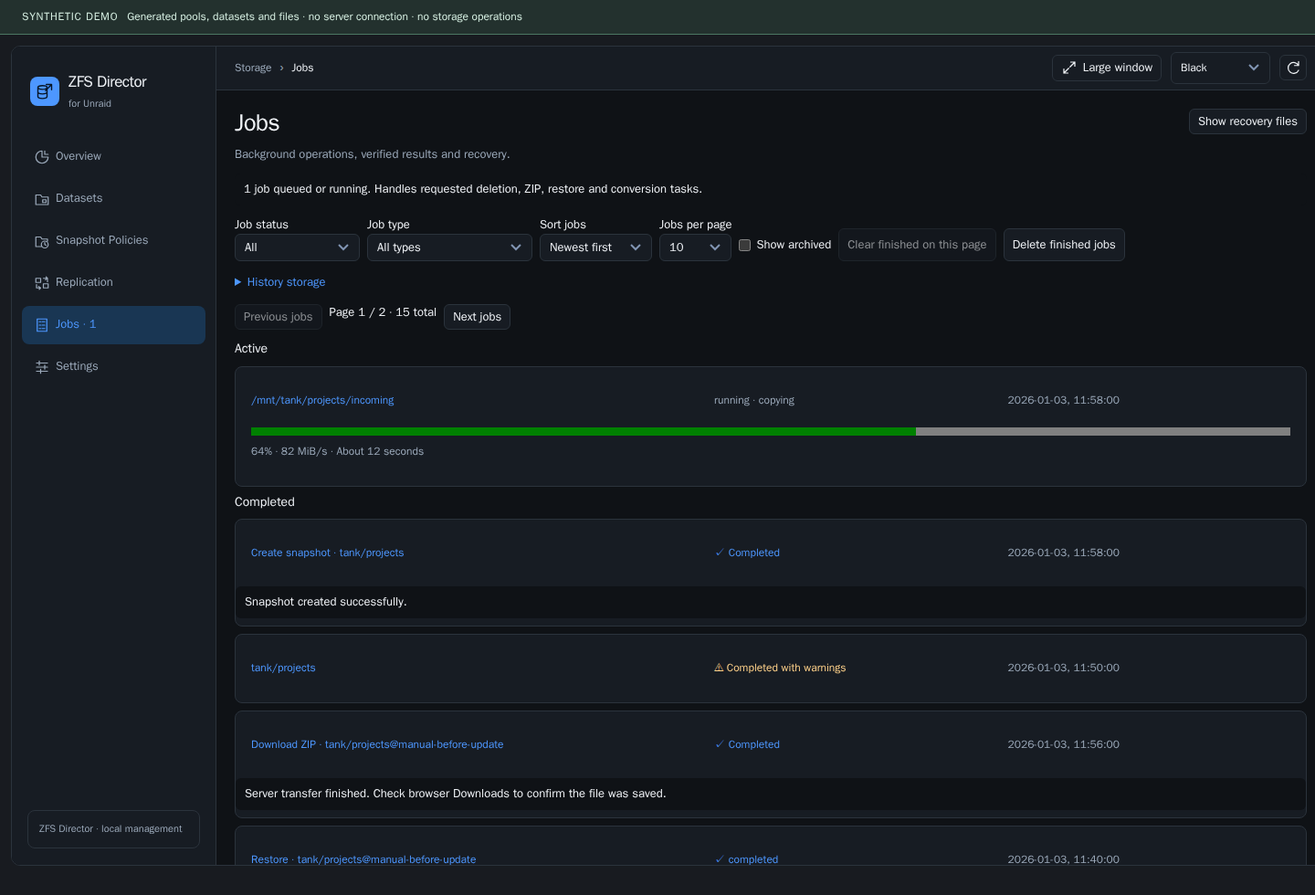
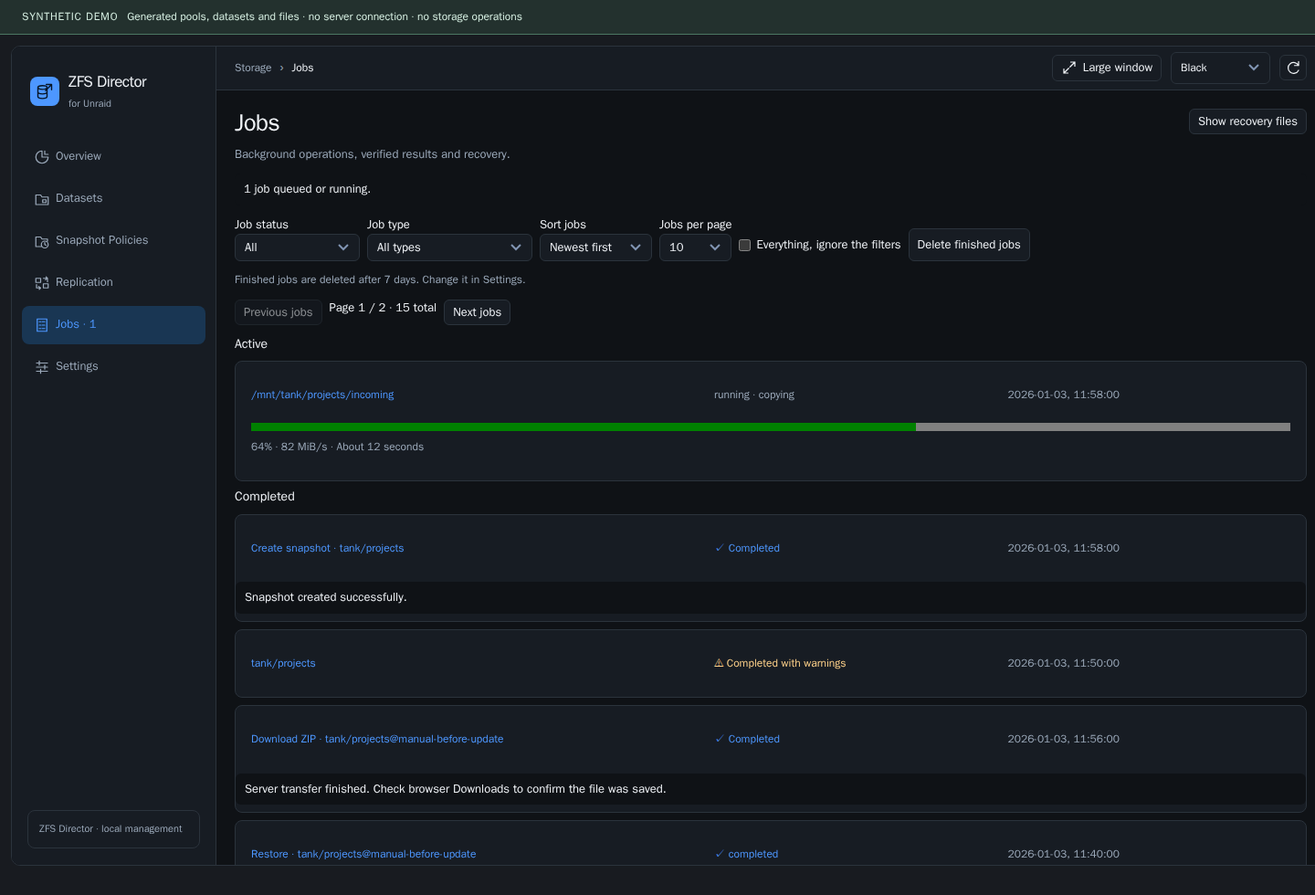
feat: Jobs lists only functional work, finished jobs expire after 7 days (setting), one Delete button

diff --git a/src/frontend/ZFSMWorkspace.js b/src/frontend/ZFSMWorkspace.js
@@ -32,7 +32,7 @@ function zfsmCreateWorkspace(options) {
     const inventoryJobs=new Set();
     let stopped=false,config=Object.assign({},options.config),data=null,lastInventory=null,inventoryFresh=false,lastSuccessfulRefresh='',section='datasets',tab='overview',pool='',selection='';
     let layout='tree',theme='auto',viewGeneration=0,activeForm=null,snapshotHost=null,detailBody=null,browserHost=null,detailHeading=null;
-    let jobsPage=1,jobsPageSize=10,jobsFilter='all',jobsType='all',jobsSort='newest',jobsView='working',jobsClear=null,jobsNotice='',jobsVisibilityBusy=false,jobsStorageOpen=false;const jobsExpanded=new Set(),jobsDiagnosticsExpanded=new Set();let jobs={jobs:[],worker_running:false},jobsError='',jobsBusy=false,jobsPending=false,jobsScope='',jobsTimer=null,jobsHost=null;
+    let jobsPage=1,jobsPageSize=10,jobsFilter='all',jobsType='all',jobsSort='newest',jobsView='all',jobsEverything=false,jobsNotice='',jobsVisibilityBusy=false,jobsStorageOpen=false;const jobsExpanded=new Set(),jobsDiagnosticsExpanded=new Set();let jobs={jobs:[],worker_running:false},jobsError='',jobsBusy=false,jobsPending=false,jobsScope='',jobsTimer=null,jobsHost=null;
     let diagnosticBusy=false,diagnosticPending=false,inventoryError='',datasetTab='overview',showRecoveryFiles=false,explorer=null,explorerDialog=null,actionDialog=null;
     let selectionChanged=false,selectionIdentity='';let diagnosticTimer=null,scrubReview='',browserQuery='',browserFilter='all',browserPage=1;
     const scrubBusy=new Set();
@@ -639,11 +639,11 @@ function zfsmCreateWorkspace(options) {
             jobs=answer;jobsScope=scope;jobsError='';if(refreshInventory)inventory.refresh();
         }
         catch(error){if(scope!==JSON.stringify(jobRequestFields()))jobsPending=true;else jobsError='Job status unavailable. Retained results may be stale: '+error.message;}
-        finally{jobsBusy=false;if(!stopped){if(!jobsError)renderOperation(jobs.operation);const attention=(Number(jobs.counts?.active)||0)+(Number(jobs.counts?.needs_attention)||0);sectionButtons.get('jobs').querySelector('.zfsm-nav-label').textContent='Jobs'+(attention>0?' · '+attention:'');renderJobs();if(section==='overview')renderSection();if(activeForm&&['cancelconversion','resumeconversion','cancelrestore'].includes(activeForm.action))forms.render(activeForm.host,activeForm.action,activeForm.context);explorer?.updateJobs?.(jobs.jobs);if(jobsPending){jobsPending=false;loadJobs();}else jobsTimer=setTimeout(loadJobs,2500);}}
+        finally{jobsBusy=false;if(!stopped){if(!jobsError)renderOperation(jobs.operation);const running=Number(jobs.counts?.active)||0;sectionButtons.get('jobs').querySelector('.zfsm-nav-label').textContent='Jobs'+(running>0?' · '+running:'');renderJobs();if(section==='overview')renderSection();if(activeForm&&['cancelconversion','resumeconversion','cancelrestore'].includes(activeForm.action))forms.render(activeForm.host,activeForm.action,activeForm.context);explorer?.updateJobs?.(jobs.jobs);if(jobsPending){jobsPending=false;loadJobs();}else jobsTimer=setTimeout(loadJobs,2500);}}
     }
     function renderJobs(){
         if(!jobsHost)return;
-        const previousStorage=jobsHost.querySelector('.zfsm-history-storage');if(previousStorage)jobsStorageOpen=previousStorage.open;
+        
         for(const detail of jobsHost.querySelectorAll('[data-job-id] > details')){const id=detail.closest('[data-job-id]').dataset.jobId;detail.open?jobsExpanded.add(id):jobsExpanded.delete(id);}
         for(const detail of jobsHost.querySelectorAll('[data-job-diagnostics]')){const id=detail.closest('[data-job-id]').dataset.jobId;detail.open?jobsDiagnosticsExpanded.add(id):jobsDiagnosticsExpanded.delete(id);}
         const copyNodes=new Map([...jobsHost.querySelectorAll('[data-job-id]')].map(row=>[row.dataset.jobId,[...row.querySelectorAll('[data-copy-status],[data-copy-fallback]')]]));
@@ -652,27 +652,17 @@ function zfsmCreateWorkspace(options) {
         jobsHost.replaceChildren();
         if(jobsScope!==JSON.stringify(jobRequestFields())){const notice=node('p',jobsError||'Loading current jobs…',jobsError?'zfsm-error':'zfsm-notice');notice.setAttribute('role',jobsError?'alert':'status');jobsHost.append(notice);return;}
         const toolbar=node('div',undefined,'zfsm-buttons zfsm-jobs-toolbar');
-        function choice(label,values,current,change){const wrap=node('label'),select=node('select');select.setAttribute('aria-label',label);for(const [value,caption]of values){const option=node('option',caption);option.value=value;select.append(option);}select.value=current;select.addEventListener('change',()=>{change(select.value);jobsPage=1;jobsClear=null;loadJobs();});wrap.append(node('span',label+' '),select);toolbar.append(wrap);}
+        function choice(label,values,current,change){const wrap=node('label'),select=node('select');select.setAttribute('aria-label',label);for(const [value,caption]of values){const option=node('option',caption);option.value=value;select.append(option);}select.value=current;select.addEventListener('change',()=>{change(select.value);jobsPage=1;loadJobs();});wrap.append(node('span',label+' '),select);toolbar.append(wrap);}
         // UX-003: status and type are separate; together they reach every former category.
         choice('Job status',[['all','All'],['active','Active'],['needs_attention','Needs attention'],['completed','Completed']],['all','active','needs_attention','completed'].includes(jobsFilter)?jobsFilter:'all',value=>jobsFilter=value);
         choice('Job type',[['all','All types'],['restore','Restore'],['archive','ZIP'],['download','Downloads'],['conversion','Conversion'],['deletion','Deletion'],['policy','Snapshot policies'],['replication','Replication'],['maintenance','Scrub and maintenance'],['snapshot','Snapshots'],['operation','Other operations']],jobsType,value=>jobsType=value);
         choice('Sort jobs',[['newest','Newest first'],['oldest','Oldest first'],['attention','Attention first']],jobsSort,value=>jobsSort=value);
         choice('Jobs per page',[[10,'10'],[25,'25'],[50,'50'],[100,'100']],jobsPageSize,value=>{jobsPageSize=Number(value);savePreferences();});
-        {const wrap=node('label',undefined,'zfsm-jobs-archive-toggle'),box=node('input');box.type='checkbox';box.checked=jobsView!=='working';box.setAttribute('aria-label','Show archived');box.addEventListener('change',()=>{jobsView=box.checked?'all':'working';jobsPage=1;jobsClear=null;loadJobs();});wrap.append(box,node('span','Show archived'));toolbar.append(wrap);}
-        const eligible=jobs.jobs.filter(job=>job.archive_eligible===true&&!job.archived).map(job=>job.id).slice(0,200),archived=jobs.jobs.filter(job=>job.archived===true).map(job=>job.id).slice(0,200);
-        const clear=button('Clear finished on this page',()=>{jobsClear={ids:eligible.slice(),archive:true};renderJobs();}),drop=button('Delete finished jobs',()=>{jobsNotice='';jobsClear={drop:true};renderJobs();}),restore=button('Restore archived on this page',()=>{jobsClear={ids:archived.slice(),archive:false};renderJobs();});
-        clear.disabled=!eligible.length||!!jobsError||jobsVisibilityBusy;restore.disabled=!archived.length||!!jobsError||jobsVisibilityBusy;drop.disabled=!!jobsError||jobsVisibilityBusy;clear.hidden=jobsView==='archived';restore.hidden=jobsView==='working';toolbar.append(clear,restore,drop);jobsHost.append(toolbar);
-        if(jobsNotice&&!jobsClear){const done=node('p',jobsNotice,'zfsm-notice');done.setAttribute('role','status');done.dataset.jobsDeleted='';jobsHost.append(done);}
-        if(jobsClear?.drop){const confirmation=node('div',undefined,'zfsm-notice');confirmation.append(node('p','Delete the records of all finished jobs, on every page? Running jobs and jobs that still hold a snapshot, a ZIP or recovery data are kept. Datasets, snapshots and files are not touched.'),button('Delete records',async()=>{if(jobsVisibilityBusy)return;jobsVisibilityBusy=true;try{const answer=await request({cmd:'deletefinishedjobs'});if(!answer.succeeded||Object.keys(answer.failed||{}).length)throw new Error(Object.values(answer.failed||{}).join('; ')||'Invalid response');jobsClear=null;jobsNotice=answer.succeeded.jobs||'';jobsPage=1;await loadJobs();}catch(error){jobsError='Unable to delete job records: '+error.message;renderJobs();}finally{jobsVisibilityBusy=false;}}),button('Cancel',()=>{jobsClear=null;renderJobs();}));jobsHost.append(confirmation);}
-        else if(jobsClear){const pending=jobsClear,confirmation=node('div',undefined,'zfsm-notice');confirmation.append(node('p',(pending.archive?'Hide '+pending.ids.length+' finished job(s) on this page? Nothing is deleted: journals stay, and Show archived brings them back.':'Restore '+pending.ids.length+' archived job(s) from this page?')),button(pending.archive?'Confirm hide':'Confirm restore',async()=>{if(jobsVisibilityBusy)return;jobsVisibilityBusy=true;try{const answer=await request({cmd:'activityvisibility',kind:'jobs',ids:pending.ids,archived:pending.archive?'1':'0'});if(!answer.succeeded||Object.keys(answer.failed||{}).length)throw new Error(Object.values(answer.failed||{}).join('; ')||'Invalid visibility response');jobsClear=null;await loadJobs();}catch(error){jobsError='Unable to change job visibility: '+error.message;renderJobs();}finally{jobsVisibilityBusy=false;}}),button('Cancel',()=>{jobsClear=null;renderJobs();}));jobsHost.append(confirmation);}
+        {const wrap=node('label',undefined,'zfsm-jobs-archive-toggle'),box=node('input');box.type='checkbox';box.checked=jobsEverything;box.setAttribute('aria-label','Everything, not only this page');box.addEventListener('change',()=>{jobsEverything=box.checked;renderJobs();});wrap.append(box,node('span','Everything, ignore the filters'));toolbar.append(wrap);}
+        const drop=button('Delete finished jobs',async()=>{if(jobsVisibilityBusy)return;jobsVisibilityBusy=true;jobsNotice='';try{const answer=await request({cmd:'deletefinishedjobs',filter:jobsFilter,type:jobsType,everything:jobsEverything?'1':'0'});if(!answer.succeeded||Object.keys(answer.failed||{}).length)throw new Error(Object.values(answer.failed||{}).join('; ')||'Invalid response');jobsNotice=answer.succeeded.jobs||'';jobsPage=1;await loadJobs();}catch(error){jobsError='Unable to delete job records: '+error.message;renderJobs();}finally{jobsVisibilityBusy=false;}});drop.disabled=!!jobsError||jobsVisibilityBusy;toolbar.append(drop);jobsHost.append(toolbar);
+        if(jobsNotice){const done=node('p',jobsNotice,'zfsm-notice');done.setAttribute('role','status');done.dataset.jobsDeleted='';jobsHost.append(done);}
 
-        const storage=node('details',undefined,'zfsm-history-storage'),storageTitle=node('summary','History storage'),last=jobs.history?.last_cleanup;
-        storage.open=jobsStorageOpen;storageTitle.setAttribute('aria-label','History storage');
-        storage.append(storageTitle,node('p','Automatic cleanup checks every hour. Successful log entries are kept for up to 30 days, with storage targets of 1,000 entries or 32 MiB. At least the newest 100 successful entries and the latest policy/replication results are retained.'));
-        storage.append(node('p','Active tasks, errors, warnings, recovery records, saved-data journals and referenced records are protected. These can exceed the targets. Cleanup never deletes datasets, snapshots, ZIP/restore files or saved originals. The audit log is retained separately.'));
-        if(last){storage.append(node('p','Last check: '+date(last.checked_at)+' · '+last.removed+' log entries removed · '+bytes(last.reclaimed_bytes)+' reclaimed.'));if(last.warning)storage.append(node('p',last.warning,'zfsm-notice'));}
-        else storage.append(node('p','The background worker will check history storage. Hiding completed entries changes the view and does not free storage.','zfsm-muted'));
-        jobsHost.append(storage);
+        {const days=jobs.history?.policy?.days??7,keep=days===0?'Finished jobs are kept until you delete them.':'Finished jobs are deleted after '+days+(days===1?' day':' days')+'.',line=node('p',keep+' Change it in Settings.','zfsm-muted');line.dataset.jobsRetention='';jobsHost.append(line);}
         if(jobs.pagination){const p=jobs.pagination,bar=node('div',undefined,'zfsm-buttons'),previous=button('Previous jobs',()=>{jobsPage=p.page-1;loadJobs();}),next=button('Next jobs',()=>{jobsPage=p.page+1;loadJobs();});previous.disabled=!p.has_previous||Boolean(jobsError);next.disabled=!p.has_next||Boolean(jobsError);bar.append(previous,node('span','Page '+p.page+' / '+p.pages+' · '+p.total+' total'),next);jobsHost.append(bar);}if(jobsError){const error=node('p',jobsError,'zfsm-error');error.setAttribute('role','alert');jobsHost.append(error);}
         if(!jobs.jobs.length)jobsHost.append(node('p','No background jobs.','zfsm-notice'));
         let previousGroup='';
@@ -721,7 +711,7 @@ function zfsmCreateWorkspace(options) {
         if(focusedNode?.isConnected&&jobsHost.contains(focusedNode))focusedNode.focus({preventScroll:true});
         else if(focusedSummary)[...jobsHost.querySelectorAll('[data-job-id]')].find(row=>row.dataset.jobId===focusedSummary)?.querySelector(focusedDiagnostics?'[data-job-diagnostics] > summary':'summary')?.focus({preventScroll:true});
         else if(focused)[...jobsHost.querySelectorAll('[aria-label]')].find(item=>item.getAttribute('aria-label')===focused)?.focus({preventScroll:true});
-        jobsHost.prepend(node('p',backgroundTaskStatus()+'. '+(jobs.worker_running?'Handles requested deletion, ZIP, restore and conversion tasks.':'Queued tasks wait until the background worker is available.'),'zfsm-notice'));
+        jobsHost.prepend(node('p',backgroundTaskStatus()+(jobs.worker_running?'.':'. Queued tasks wait for the background worker.'),'zfsm-notice'));
     }
     // Copy of a job's redacted record for a bug report (secure clipboard or a manual fallback).
     function redactedActivity(value) {

diff --git a/src/frontend/ZFSMForms.js b/src/frontend/ZFSMForms.js
@@ -574,7 +574,7 @@
         refresh_interval: config.refresh_interval ?? 30, lazy_load: config.lazy_load ?? 0,
         destructive_mode: config.destructive_mode ?? 0, exclusion: config.dataset_exclusion ?? config.exclusion ?? '',
         directory_listing: Array.isArray(config.directory_listing) ? config.directory_listing.join('\n') : config.directory_listing || '',
-        snap_max_days_alert: config.snap_max_days_alert ?? 30, snap_pattern: config.snap_pattern ?? 'Y-m-d-His', snap_prefix: config.snap_prefix || '',space_warning_percent:config.space_warning_percent??80,space_critical_percent:config.space_critical_percent??90,replication_lag_hours:config.replication_lag_hours??24
+        snap_max_days_alert: config.snap_max_days_alert ?? 30, snap_pattern: config.snap_pattern ?? 'Y-m-d-His', snap_prefix: config.snap_prefix || '',space_warning_percent:config.space_warning_percent??80,space_critical_percent:config.space_critical_percent??90,replication_lag_hours:config.replication_lag_hours??24,job_retention_days:config.job_retention_days??7
       };
       for (const name of Object.keys(values)) values[name] = String(values[name]);
       return values;
@@ -593,6 +593,7 @@
       const values = settingsValues();
       state.settingsBaseline = values;
       state.dirtySettings = new Set(Object.keys(state.draft).filter(name => Object.prototype.hasOwnProperty.call(values, name) && String(state.draft[name]) !== values[name]));
+      field(state, 'job_retention_days', 'Keep finished jobs for', values.job_retention_days, [['1', '1 day'], ['7', '7 days'], ['30', '30 days'], ['0', 'Always']]);
       field(state, 'refresh_interval', 'Refresh interval', values.refresh_interval, [['0', 'No refresh'], ['30', '30 seconds'], ['60', '1 minute'], ['120', '2 minutes'], ['300', '5 minutes'], ['900', '15 minutes'], ['1800', '30 minutes']]);
       for (const [key, label] of [['lazy_load', 'Load snapshots only when a pool is opened'], ['destructive_mode', 'Destructive Mode']]) field(state, key, label, values[key], [['0', 'No'], ['1', 'Yes']]);
       const listing = field(state, 'directory_listing', 'Show folders in the tree for these datasets', values.directory_listing, null, { type: 'textarea', rows: 5, maxLength: 16384 });

diff --git a/src/include/ZFSMJobHistory.php b/src/include/ZFSMJobHistory.php
@@ -1,7 +1,19 @@
 <?php
+require_once __DIR__.'/ZFSMRecoveryCleanup.php';
 // Log retention never invokes ZFS or removes manifests, spools or saved data.
+// Settings > Keep finished jobs for: 1, 7 or 30 days, or 0 = always. Default 7.
+function zfsmJobRetentionDays() {
+    $value=null;
+    try{
+        $file=$GLOBALS['plugin_config']??null;
+        $stored=is_string($file)&&is_file($file)?@parse_ini_file($file,true,INI_SCANNER_NORMAL):null;
+        if(is_array($stored)){$value=$stored['job_retention_days']??($stored['general']['job_retention_days']??null);}
+        elseif(function_exists('parse_plugin_cfg')){$cfg=parse_plugin_cfg($GLOBALS['plugin'],true);$value=is_array($cfg)?($cfg['job_retention_days']??null):null;}
+    }catch(Throwable$error){}
+    return in_array((string)$value,['0','1','7','30'],true)?(int)$value:7;
+}
 function zfsmJobHistoryPolicy() {
-    return ['interval_seconds'=>3600,'days'=>30,'max_entries'=>1000,'max_bytes'=>32*1024*1024,'minimum_kept'=>100,'batch_limit'=>250,'duplicate_batch_limit'=>5000];
+    return ['interval_seconds'=>3600,'days'=>zfsmJobRetentionDays(),'batch_limit'=>5000,'duplicate_batch_limit'=>5000];
 }
 // Pin every existing directory component; missing metadata is never followed.
 function zfsmJobHistoryPathProof($path) {
@@ -57,15 +69,15 @@ function zfsmJobKeepOnDelete($job,$pinned=false) {
     if(in_array($state,['queued','running'],true))return 'running';
     if($state==='recovery_required')return 'needs recovery';
     if(!empty($job['hold_owned'])||(function_exists('zfsmArchiveNeedsCleanup')&&zfsmArchiveNeedsCleanup($job)))return 'still holds a snapshot or ZIP';
-    // A conversion or deletion that retained an original keeps the only pointer to it in Jobs.
-    if(in_array($schema,[1,6],true)&&!empty($job['recovery']))return 'retains an original for recovery';
+    // A ZIP that is still on disk belongs to its job until it is removed.
+    if($schema===2&&($job['type']??'')==='archive'&&empty($job['archive_removed']))return 'still holds a snapshot or ZIP';
     if($pinned)return 'latest result of a policy or replication';
     if($schema===4&&in_array($state,['completed','failed','cancelled'],true))return null;
     if($schema===7&&in_array($state,['completed','failed','cancelled'],true))return function_exists('zfsmRequestJobActive')&&zfsmRequestJobActive($job)?'running':null;
     if(function_exists('zfsmCleanupTerminalJob')&&zfsmCleanupTerminalJob($job))return null;
     return 'may own recovery data';
 }
-function zfsmJobDeleteFinished() {
+function zfsmJobDeleteFinished($only=null) {
     $gate=zfsmJobHistoryGate(true,true);if($gate===null)throw new RuntimeException('Jobs are being updated; try again in a moment.');
     $removed=0;$kept=[];$directory=zfsmJobDirectory($GLOBALS['plugin_state']);
     $keep=function($reason)use(&$kept){$kept[$reason]=($kept[$reason]??0)+1;};
@@ -83,8 +95,9 @@ function zfsmJobDeleteFinished() {
             zfsmJobHistoryReferences($job,$pins,$id);
             if(($job['schema']??null)===4){$key=($job['type']??'').':'.($job['definition_id']??'');if(!isset($latest[$key])){$pins[$id]=true;$latest[$key]=true;}if(($job['verification']['verified']??false)===true&&!isset($latest[$key.':verified'])){$pins[$id]=true;$latest[$key.':verified']=true;}}
         }
-        foreach($unreadable as$id=>$_)$keep('needs inspection');
+        foreach($unreadable as$id=>$_)if($only===null||isset($only[$id]))$keep('needs inspection');
         foreach($jobs as$id=>$job){
+            if($only!==null&&!isset($only[$id]))continue;
             $reason=zfsmJobKeepOnDelete($job,isset($pins[$id]));if($reason!==null){$keep($reason);continue;}
             $file=zfsmJobFile($id);$lock=$file.'.lock';$handle=null;
             if(file_exists($lock)||is_link($lock)){
@@ -105,17 +118,18 @@ function zfsmJobDeleteFinished() {
 function zfsmJobHistoryCleanup($now=null) {
     $now=$now??time();$policy=zfsmJobHistoryPolicy();$last=zfsmJobHistoryStatus()['last_cleanup'];
     if($last!==null&&$now-$last['checked_at']<$policy['interval_seconds'])return ['skipped'=>'not_due'];
+    if($policy['days']===0)return ['skipped'=>'keep_always'];
     $operation=zfsmAcquireOperationLock($GLOBALS['plugin_lock'],true);if($operation===null)return ['skipped'=>'operation_busy'];
-    $gate=null;$config=null;$report=['checked_at'=>$now,'removed'=>0,'reclaimed_bytes'=>0,'protected'=>0,'minimum_kept'=>$policy['minimum_kept'],'blocked'=>false];
+    $gate=null;$config=null;$report=['checked_at'=>$now,'removed'=>0,'reclaimed_bytes'=>0,'protected'=>0,'days'=>$policy['days'],'blocked'=>false];
     try {
     try {
         $gate=zfsmJobHistoryGate(true,true);if($gate===null)return ['skipped'=>'journal_busy'];
         zfsmJobHistoryPathProof(dirname($GLOBALS['plugin_config']));zfsmJobHistoryPathProof(dirname($GLOBALS['plugin_config']).'/protection');$configPath=zfsmProtectionDirectory().'/config.lock';if(is_link($configPath))throw new RuntimeException('Protection state requires inspection.');$config=fopen($configPath,'ce');$configStat=$config?fstat($config):false;$configNamed=zfsmJobHistoryRegular($configPath);if(!$configStat||$configStat['dev']!==$configNamed['dev']||$configStat['ino']!==$configNamed['ino'])throw new RuntimeException('Protection lock identity changed.');if(!flock($config,LOCK_SH|LOCK_NB))return ['skipped'=>'configuration_busy'];
         $storeFile=zfsmProtectionDirectory().'/config.json';if(file_exists($storeFile)||is_link($storeFile))zfsmJobHistoryRegular($storeFile);$store=zfsmProtectionReadStore();$pins=[];zfsmJobHistoryReferences($store,$pins);
         $records=[];$bytes=0;$seen=0;$directory=zfsmJobDirectory($GLOBALS['plugin_state']);$scan=opendir($directory);
-        try{while(($name=readdir($scan))!==false){if(++$seen>20000)throw new RuntimeException('History scan limit reached; no records removed.');if(!preg_match('/^([0-9]{8}-[0-9]{6}-[a-f0-9]{12})\.json$/D',$name,$match)){if(str_ends_with($name,'.json'))throw new RuntimeException('Unknown job journal; history retained for inspection.');continue;}
-            $file=$directory.'/'.$name;$stat=zfsmJobHistoryRegular($file);if($stat['size']>131072||count($records)>=5000||$bytes+$stat['size']>64*1024*1024)throw new RuntimeException('History scan limit reached; no records removed.');
-            $job=zfsmReadJob($match[1]);if(zfsmJobProblem($job))throw new RuntimeException('Invalid job journal; history retained for inspection.');$bytes+=$stat['size'];$records[$job['id']]=['job'=>$job,'stat'=>$stat,'hash'=>hash_file('sha256',$file),'time'=>zfsmJobHistoryTime($job)??PHP_INT_MAX];
+        try{while(($name=readdir($scan))!==false){if(++$seen>40000)throw new RuntimeException('History scan limit reached; no records removed.');if(!preg_match('/^([0-9]{8}-[0-9]{6}-[a-f0-9]{12})\.json$/D',$name,$match)){if(str_ends_with($name,'.json'))throw new RuntimeException('Unknown job journal; history retained for inspection.');continue;}
+            $file=$directory.'/'.$name;$stat=zfsmJobHistoryRegular($file);if($stat['size']>131072||count($records)>=20000||$bytes+$stat['size']>256*1024*1024)throw new RuntimeException('History scan limit reached; no records removed.');
+            $job=zfsmReadJob($match[1]);if(zfsmJobProblem($job)){$report['protected']++;continue;}$bytes+=$stat['size'];$records[$job['id']]=['job'=>$job,'stat'=>$stat,'hash'=>hash_file('sha256',$file),'time'=>zfsmJobHistoryTime($job)??PHP_INT_MAX];
             zfsmJobHistoryReferences($job,$pins,$job['id']);
         }}finally{closedir($scan);}
         uasort($records,fn($a,$b)=>($b['time']<=>$a['time'])?:strcmp($b['job']['id'],$a['job']['id']));
@@ -123,14 +137,14 @@ function zfsmJobHistoryCleanup($now=null) {
         // A scheduled launch refused before anything ran used to write a new failed record every
         // minute. Of each run of identical refusals only the newest is kept, whatever its age.
         $duplicates=[];$firstRefusal=[];foreach($records as$id=>$r){if(!zfsmProtectionBlockedBeforeStart($r['job']))continue;$key=$r['job']['type'].':'.$r['job']['definition_id'].':'.hash('sha256',(string)($r['job']['error']??''));if(!isset($firstRefusal[$key])){$firstRefusal[$key]=true;continue;}if(!isset($pins[$id]))$duplicates[$id]=$r;}
-        $eligible=[];foreach($records as$id=>$r){if(isset($duplicates[$id]))continue;if(isset($pins[$id])||!zfsmJobHistoryEligible($r['job']))$report['protected']++;else$eligible[$id]=$r;}
-        $eligible=array_slice($eligible,$policy['minimum_kept'],null,true);$count=count($records);
+        $eligible=[];foreach($records as$id=>$r){if(isset($duplicates[$id]))continue;if(isset($pins[$id])||zfsmJobKeepOnDelete($r['job'],false)!==null)$report['protected']++;else$eligible[$id]=$r;}
+        $count=count($records);
         $duplicateRemoved=0;
         foreach(array_reverse($duplicates,true)+array_reverse($eligible,true)as$id=>$r){
             $duplicate=isset($duplicates[$id]);
             if($duplicate&&$duplicateRemoved>=$policy['duplicate_batch_limit'])continue;
             if(!$duplicate&&$report['removed']-$duplicateRemoved>=$policy['batch_limit'])break;
-            if(!$duplicate&&$r['time']>$now-$policy['days']*86400&&$count<$policy['max_entries']&&$bytes<=$policy['max_bytes']-8192)continue;
+            if(!$duplicate&&$r['time']>$now-$policy['days']*86400)continue;
             $file=zfsmJobFile($id);$stat=zfsmJobHistoryRegular($file);if($stat['dev']!==$r['stat']['dev']||$stat['ino']!==$r['stat']['ino']||hash_file('sha256',$file)!==$r['hash'])throw new RuntimeException('Job identity changed; remaining history retained.');
             $aux=[$file.'.lock',$GLOBALS['plugin_runtime'].'/'.$id.'.json',$GLOBALS['plugin_runtime'].'/requests/'.$id.'.lock',$directory.'/visibility/jobs/'.$id.'.marker'];
             $proofs=[];$existing=[];$locks=[];$busy=false;
@@ -147,13 +161,11 @@ function zfsmJobHistoryCleanup($now=null) {
                 foreach($existing as$path)if($path!==$file&&!unlink($path))throw new RuntimeException('Unable to remove expired log metadata.');
             }finally{foreach($locks as$h)if(is_resource($h)){flock($h,LOCK_UN);fclose($h);}}
         }
-        $report['entries']=$count;$report['bytes']=$bytes;$report['over_limit']=$count>$policy['max_entries']||$bytes>$policy['max_bytes'];
-        if($report['over_limit'])$report['warning']='Protected history or cleanup backlog exceeds the storage target; retained for inspection.';
+        $report['entries']=$count;$report['bytes']=$bytes;
         if($report['removed'])zfsmAuditSyncDirectory($directory);
     } catch(Throwable$error){$report['blocked']=true;$report['warning']=$error->getMessage();}
     finally {foreach([$config,$gate]as$handle)if(is_resource($handle)){flock($handle,LOCK_UN);fclose($handle);}}
     zfsmJobAtomicWrite(zfsmJobDirectory($GLOBALS['plugin_runtime']).'/history-cleanup.json',$report);
-    if($report['removed']){zfsmRequestJobBegin('jobhistorycleanup',['cmd'=>'jobhistorycleanup']);$summary=zfsmRequestJobFinish('completed','Removed '.$report['removed'].' expired log records ('.$report['reclaimed_bytes'].' bytes). Datasets, snapshots and recovery files were not changed.','completed',['removed'=>$report['removed'],'reclaimed_bytes'=>$report['reclaimed_bytes']]);if(isset($report['entries'],$report['bytes'])){$report['entries']++;$report['bytes']+=filesize(zfsmJobFile($summary['id']));$report['over_limit']=$report['entries']>$policy['max_entries']||$report['bytes']>$policy['max_bytes'];}zfsmJobAtomicWrite($GLOBALS['plugin_runtime'].'/history-cleanup.json',$report);}
     return $report;
     }finally{flock($operation,LOCK_UN);fclose($operation);}
 }

diff --git a/src/include/ZFSMJobs.php b/src/include/ZFSMJobs.php
@@ -308,6 +308,17 @@ function zfsmJobPresentation($job,$file,$worker_running,$problem=null) {
     if(!$problem&&($job['schema']??null)===7){$job['actions']=['cancel'=>false,'resume'=>false,'download'=>false,'inspect'=>true];$job['execution_active']=in_array($job['state'],['queued','running'],true)&&zfsmRequestJobActive($job);$job['retained_data']=['source'=>$job['source'],'message'=>'Recorded operation; it is never replayed by the worker. Inspect actual state before any new request.'];}
     return zfsmRedactJobData($job);
 }
+// Jobs lists only functional work: conversion, restore and ZIP preparation, deletion, requests
+// rejected before they started, replication runs and manual snapshot-policy runs. Everything
+// else (quick actions, scrub, downloads, scheduled policy checks) is internal and never listed.
+// An unreadable journal stays listed so that it can be inspected.
+function zfsmJobListed($job) {
+    $schema=$job['schema']??null;
+    if(!in_array($schema,[1,2,4,5,6,7],true)||zfsmJobProblem($job))return true;
+    if($schema===7)return false;
+    if($schema===4)return ($job['type']??'')==='replication'||($job['trigger']??'')==='manual';
+    return true;
+}
 function zfsmJobPage($page=1,$page_size=25,$options=null) {
     if ($options!==null) {
         if(!is_array($options))throw new InvalidArgumentException('Invalid jobs options');
@@ -327,6 +338,7 @@ function zfsmJobPage($page=1,$page_size=25,$options=null) {
             $job=['id'=>basename($name,'.json'),'schema'=>null,'type'=>'unknown','state'=>'recovery_required'];
             $problem=['invalid_journal','Journal cannot be read safely: '.$error->getMessage().'. Inspect retained data manually.'];
         }
+        if(!empty($options['listed'])&&!zfsmJobListed($job))continue;
         $job=zfsmJobPresentation($job,$file,$worker_running,$problem);
         // Runtime progress is disposable. Its failure must not hide a valid journal.
         if (!$problem&&!(($job['schema']??null)===7&&!in_array($job['state'],['queued','running'],true))) try {
@@ -357,6 +369,7 @@ function zfsmJobPage($page=1,$page_size=25,$options=null) {
             $problem=['invalid_journal','Journal cannot be read safely: '.$error->getMessage().'. Inspect retained data manually.'];
         }
         if (!$problem && ($job['state']??'')==='completed' && zfsmProtectionIdleCheck($job,$job['verification']??[]) && empty($job['cancel_requested'])) continue;
+        if(!empty($options['listed'])&&!zfsmJobListed($job))continue;
         $job=zfsmJobPresentation($job,$runtimeFile,$worker_running,$problem);
         if (!$problem && !in_array($job['state'],['queued','running'],true)) $job['group']='needs_attention';
         $groups[$job['group']][]=$job;
@@ -368,8 +381,8 @@ function zfsmJobPage($page=1,$page_size=25,$options=null) {
         $all=array_values(array_filter($all,function($job)use($filter,$type,$view){return ($view==='all'||($view==='archived')===$job['archived'])&&($filter==='all'||$filter===$job['group']||($filter==='recovery'&&$job['state']==='recovery_required')||$filter===$job['type']||$filter===zfsmRequestJobCategory($job))&&($type==='all'||$type===$job['type']||$type===zfsmRequestJobCategory($job));}));
         $createdTime=static function($job){$created=$job['created']??null;if(is_int($created)||is_float($created))return is_finite($created)&&$created>0?$created:0;return is_string($created)&&strlen($created)<=64?(strtotime($created)?:0):0;};
         usort($all,function($a,$b)use($sort,$createdTime){if($sort==='attention'){$rank=['needs_attention'=>0,'active'=>1,'completed'=>2];$d=$rank[$a['group']]-$rank[$b['group']];if($d)return $d;}$aTime=$createdTime($a);$bTime=$createdTime($b);$d=($bTime<=>$aTime)?:strcmp($b['id'],$a['id']);return $sort==='oldest'?-$d:$d;});
-        // Hidden (archived) jobs no longer count toward the Jobs badge or the Overview status.
-        $counts=['active'=>0,'needs_attention'=>0,'completed'=>0];foreach($groups as$group=>$items)foreach($items as$item)if(!zfsmActivityJobArchived($item))$counts[$group]++;$total=count($all);$page_size=max(1,min(200,(int)$page_size));$pages=max(1,(int)ceil($total/$page_size));$page=max(1,min($pages,(int)$page));
+        if(!empty($options['ids_only']))return ['ids'=>array_column($all,'id')];
+        $counts=array_map('count',$groups);$total=count($all);$page_size=max(1,min(200,(int)$page_size));$pages=max(1,(int)ceil($total/$page_size));$page=max(1,min($pages,(int)$page));
         return ['jobs'=>array_slice($all,($page-1)*$page_size,$page_size),'counts'=>$counts,'pagination'=>['page'=>$page,'page_size'=>$page_size,'total'=>$total,'pages'=>$pages,'has_previous'=>$page>1,'has_next'=>$page<$pages]];
     }
     $counts=array_map('count',$groups); $page_size=max(1,min(200,(int)$page_size)); $pages=max(1,(int)ceil($counts['completed']/$page_size)); $page=max(1,min($pages,(int)$page));

diff --git a/src/backend/ZFSMAdmin.php b/src/backend/ZFSMAdmin.php
@@ -218,11 +218,14 @@ try {
 			zfsmReturnAnswer($answer);
 			break;
 		case 'deletefinishedjobs':
-			zfsmReturnAnswer(zfsmJobDeleteFinished());
+			foreach(['filter','type','everything']as$key)if(array_key_exists($key,$_POST)&&!is_string($_POST[$key]))throw new InvalidArgumentException('Invalid delete request');
+			// By default only jobs matching the filters shown in Jobs, on every page; "everything" ignores them.
+			$only=null;if(($_POST['everything']??'')!=='1'){$match=zfsmJobPage(1,1,array_intersect_key($_POST,array_flip(['filter','type']))+['view'=>'all','ids_only'=>true,'listed'=>true]);$only=array_fill_keys($match['ids'],true);}
+			zfsmReturnAnswer(zfsmJobDeleteFinished($only));
 			break;
 		case 'conversionjobs':
 			foreach(['page','page_size','filter','type','sort','view']as$key)if(array_key_exists($key,$_POST)&&!is_string($_POST[$key]))throw new InvalidArgumentException('Invalid jobs page request');
-			$job_options=array_intersect_key($_POST,array_flip(['filter','type','sort','view']));
+			$job_options=array_intersect_key($_POST,array_flip(['filter','type','sort','view']))+['listed'=>($_POST['listed']??'1')!=='0'];
 			echo json_encode(zfsmJobPage(zfsmPostString('page','1'),zfsmPostString('page_size','25'),$job_options?:null)+['worker_running'=>zfsmWorkerRunning(),'history'=>zfsmJobHistoryStatus(),'operation'=>zfsmOperationLockStatus()],JSON_UNESCAPED_SLASHES|JSON_INVALID_UTF8_SUBSTITUTE);
 			break;
 		case 'auditlog':

diff --git a/src/include/ZFSMSettings.php b/src/include/ZFSMSettings.php
@@ -26,6 +26,7 @@ function zfsmValidateSettings($settings) {
     $warning=(int)($settings['space_warning_percent']??80);$critical=(int)($settings['space_critical_percent']??90);
     if($warning<1||$warning>99)$errors['space_warning_percent']='Use 1–99 percent.';
     if($critical<2||$critical>100||$critical<=$warning)$errors['space_critical_percent']='Critical percent must exceed warning and be at most 100.';
+    if(isset($settings['job_retention_days'])&&!in_array($settings['job_retention_days'],['0','1','7','30'],true))$errors['job_retention_days']='Choose 1 day, 7 days, 30 days or Always.';
     if((int)($settings['replication_lag_hours']??24)>8760)$errors['replication_lag_hours']='Use 0–8760 hours; 0 disables replication age alerts.';
     if ($errors) return ['valid'=>false,'errors'=>$errors,'snapshot_preview'=>''];
     if (!in_array($settings['refresh_interval'],['0','30','60','120','300','900','1800'],true)) $errors['refresh_interval']='Choose a supported refresh interval, for example 30 seconds.';

diff --git a/tests/native-linux/process-cases.php b/tests/native-linux/process-cases.php
@@ -32,7 +32,7 @@ try {
         $observed=zfsmObserveRequestJob($orphan['id']);insist($observed['state']==='recovery_required','lost request was not inspection-required');
         insist(zfsmObserveRequestJob($j['id'])['state']==='completed','observer replaced final result');
         require '/stand/src/include/ZFSMRestore.php';
-        require '/stand/src/include/ZFSMRecoveryCleanup.php';
+        require_once '/stand/src/include/ZFSMRecoveryCleanup.php';
         $GLOBALS['plugin_state']=$base.'/cleanup-jobs';$target='/fixture/.zfsm-mutation-'.str_repeat('a',48);
         $cleanup=zfsmRequestJobBegin('cleanupmutation',['directory'=>$target]);$lease=$GLOBALS['zfsm_request_job']['lease'];$path=zfsmRequestJobLease($cleanup['id']);
         zfsmCleanupRequireIdle($target);

diff --git a/src/include/ZFSMRequestJobs.php b/src/include/ZFSMRequestJobs.php
@@ -4,7 +4,7 @@ require_once __DIR__.'/ZFSMCommands.php';
 // Labels of every audited command (ARCH-002 registry) plus internal worker maintenance.
 function zfsmRequestJobCommands() {
     $labels=[];foreach(zfsmCommandRegistry()as$name=>$c)if($c['label']!==null)$labels[$name]=$c['label'];
-    return $labels+['jobhistorycleanup'=>'Clean job history'];
+    return $labels;
 }
 // Only these synchronous requests keep a journal from the start: their outcome is
 // observed over time (scrub progress, download transfer). Every other synchronous

diff --git a/src/include/ZFSMHelpers.php b/src/include/ZFSMHelpers.php
@@ -132,6 +132,8 @@ function zfsmSettingsSchema(): array {
 		'space_warning_percent'  => ['type' => 'int',    'default' => 80, 'optional' => true],
 		'space_critical_percent' => ['type' => 'int',    'default' => 90, 'optional' => true],
 		'replication_lag_hours'  => ['type' => 'int',    'default' => 24, 'optional' => true],
+		// How long finished jobs are kept: 1, 7 or 30 days, or 0 = always.
+		'job_retention_days'     => ['type' => 'int',    'default' => 7,  'optional' => true],
 	];
 }
 

diff --git a/README.md b/README.md
@@ -196,7 +196,7 @@ New retained originals use a recognizable name such as `incoming_archived_<date-
 
 ## Jobs: activity, progress and recovery
 
-Jobs lists background work and failures: file restore, ZIP preparation/download, conversion, deletion, scrub and Data Protection runs. Quick actions that succeed, such as taking a snapshot or saving settings, are written only to the audit log. External scripts keep their own ownership and execution history.
+Jobs lists only functional work: directory conversion, file restore and ZIP preparation, dataset or directory deletion, requests refused before they started, replication runs (scheduled or manual) and manual snapshot-policy runs (**Run now**). Quick actions, scrub, downloads and scheduled snapshot checks are not listed.
 
 Snapshot policies, replication and file jobs run in three separate background lanes, so a long replication does not delay scheduled snapshots, restores or ZIP downloads. A snapshot policy still waits while a local replication is receiving into its dataset.
 
@@ -205,15 +205,14 @@ Snapshot policies, replication and file jobs run in three separate background la
 - Stage history helps distinguish copying, verification, publication and recovery.
 - Eligible retention deletion with protected snapshots left intact is reported as **Completed with warnings**, with an explanatory result.
 - Filters separate operation types and attention states. Pagination defaults to **10 records**, with larger page sizes available.
-- A scheduled run refused before anything starts (for example, Sanoid is missing or the integration is off) is recorded once; repeats every minute only update a counter on that record: *Refused again N times, last at …*.
-- **Clear finished on this page** hides finished jobs, failed ones included; **Show archived** brings them back. **Delete finished jobs** deletes the records of all finished jobs on every page. Kept: running jobs; jobs that hold a snapshot or a ZIP, or may own recovery data (cancelled or failed conversions, restores and deletions, and any that retained an original); and the latest result of each policy and replication, which pool warnings read. Datasets, snapshots and files are never touched.
+- **Delete finished jobs** deletes, at once and on every page, the records of finished jobs that match the current filters; tick **Everything** to ignore the filters. A line above the list reports what was deleted and what was kept. The same jobs are kept as by the automatic cleanup.
 - Recovery controls appear only where the backend supports them; completed or unsafe work is not silently resumed.
 
 ![Synthetic Jobs with conversion progress, a retention warning and pagination](docs/images/jobs.png)
 
 ### Keeping history bounded
 
-The worker checks history maintenance hourly. Default policy: 30 days, soft limits of 1,000 entries / 32 MiB, at least the newest 100 records retained, and bounded cleanup batches. Active, failed/recovery-related, referenced and retained-data records receive protection. These limits do not authorize deleting user data or recovery originals; protected history may keep storage above the soft limits and require inspection.
+Finished jobs are deleted automatically after **7 days** by default. Change it in **Settings → Keep finished jobs for**: 1 day, 7 days, 30 days or Always. The check runs hourly. Running jobs, jobs that hold a snapshot or a ZIP, failed or cancelled conversions, restores and deletions, and the latest result of each policy and replication are kept. Datasets, snapshots and files are never touched.
 
 
 ## Requirements and state

diff --git a/CHANGELOG.md b/CHANGELOG.md
@@ -1,3 +1,8 @@
+### 2026.11.14.3
+Jobs lists only functional work: directory conversion, file restore and ZIP preparation, dataset or directory deletion, requests refused before they started, replication runs, and manual snapshot-policy runs. Quick actions, scrub, downloads and scheduled snapshot checks no longer appear, and the Clean job history entry is gone. Finished jobs are deleted after 7 days by default; Settings has a new Keep finished jobs for option (1 day, 7 days, 30 days or Always). One Delete finished jobs button and an Everything checkbox replace the three clear and restore buttons; the button deletes at once, on every page, whatever matches the filters. The Jobs badge counts only running jobs. The long storage explanation is now one short line.
+
+ZFS Director: based on ZFS Master by Carlos Rodriguez (IkerSaint). GPL-2.0-or-later. Settings and recovery state retain their namespace. Background services start automatically after successful validation. Uninstall stops Director services and preserves settings, Jobs and recovery data.
+
 ### 2026.11.14.2
 A scheduled Sanoid or Syncoid run that is refused before it starts (for example, Sanoid is missing) is now recorded once instead of every minute; repeats only raise a counter, and old duplicates are folded away by the hourly cleanup. Jobs has a new Delete finished jobs button that removes the records of all finished jobs; running jobs, jobs that hold a snapshot, a ZIP or recovery data, and the latest result of each policy and replication are kept. Clear finished on this page now also hides failed jobs. The Administrative History screen is gone: quick actions stay in the audit log, and errors are in Jobs.
 
